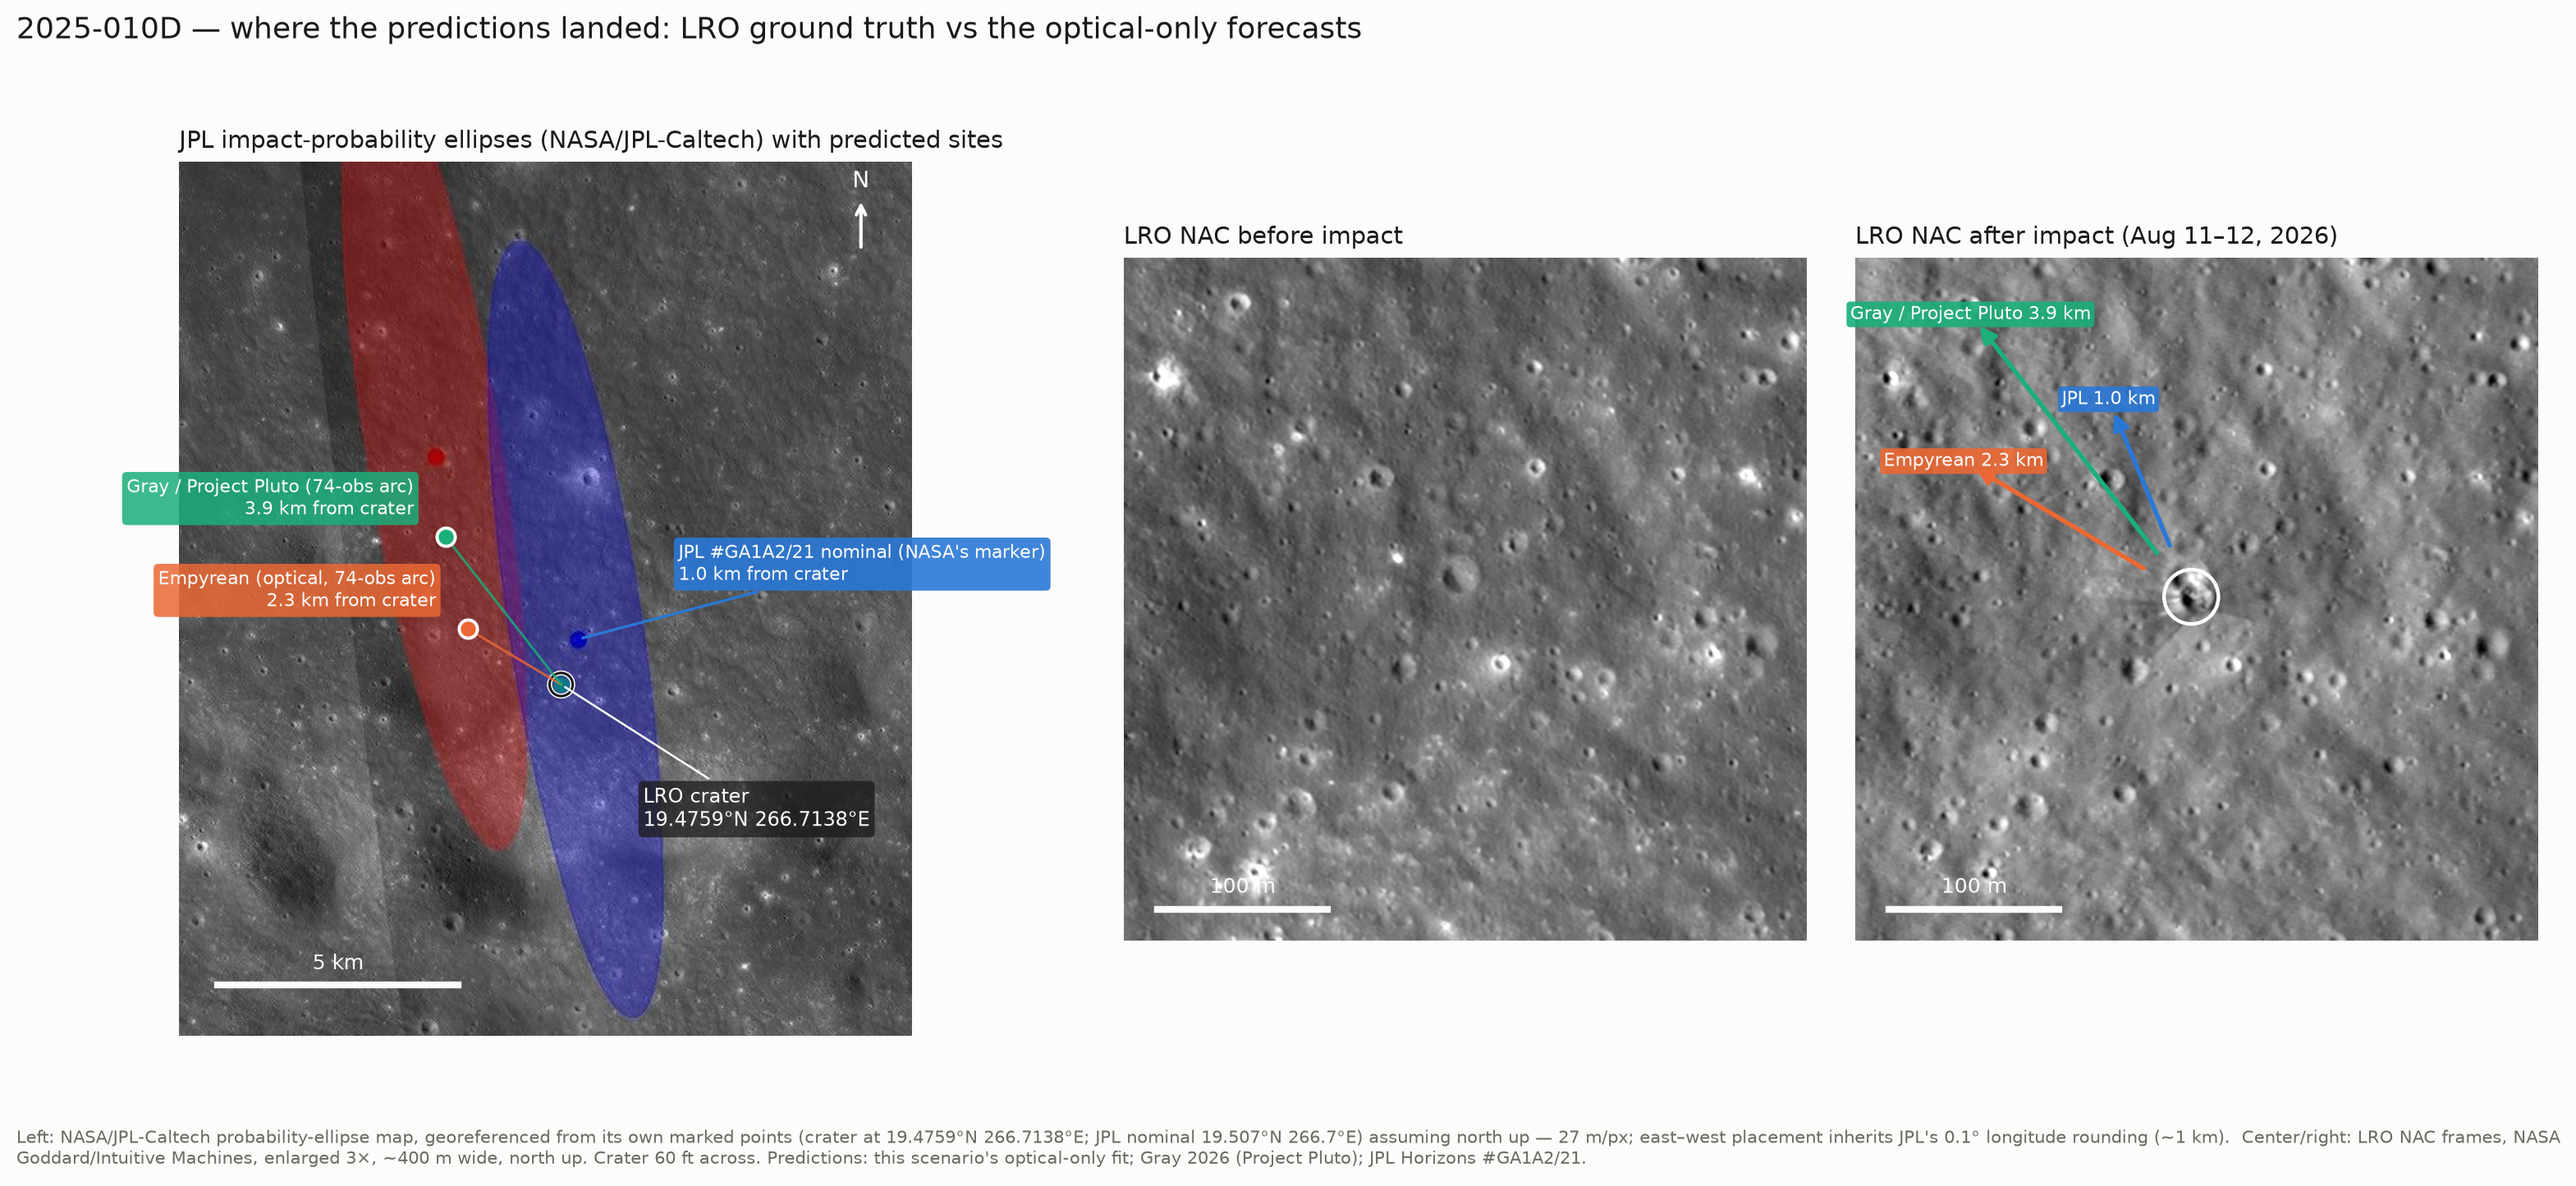
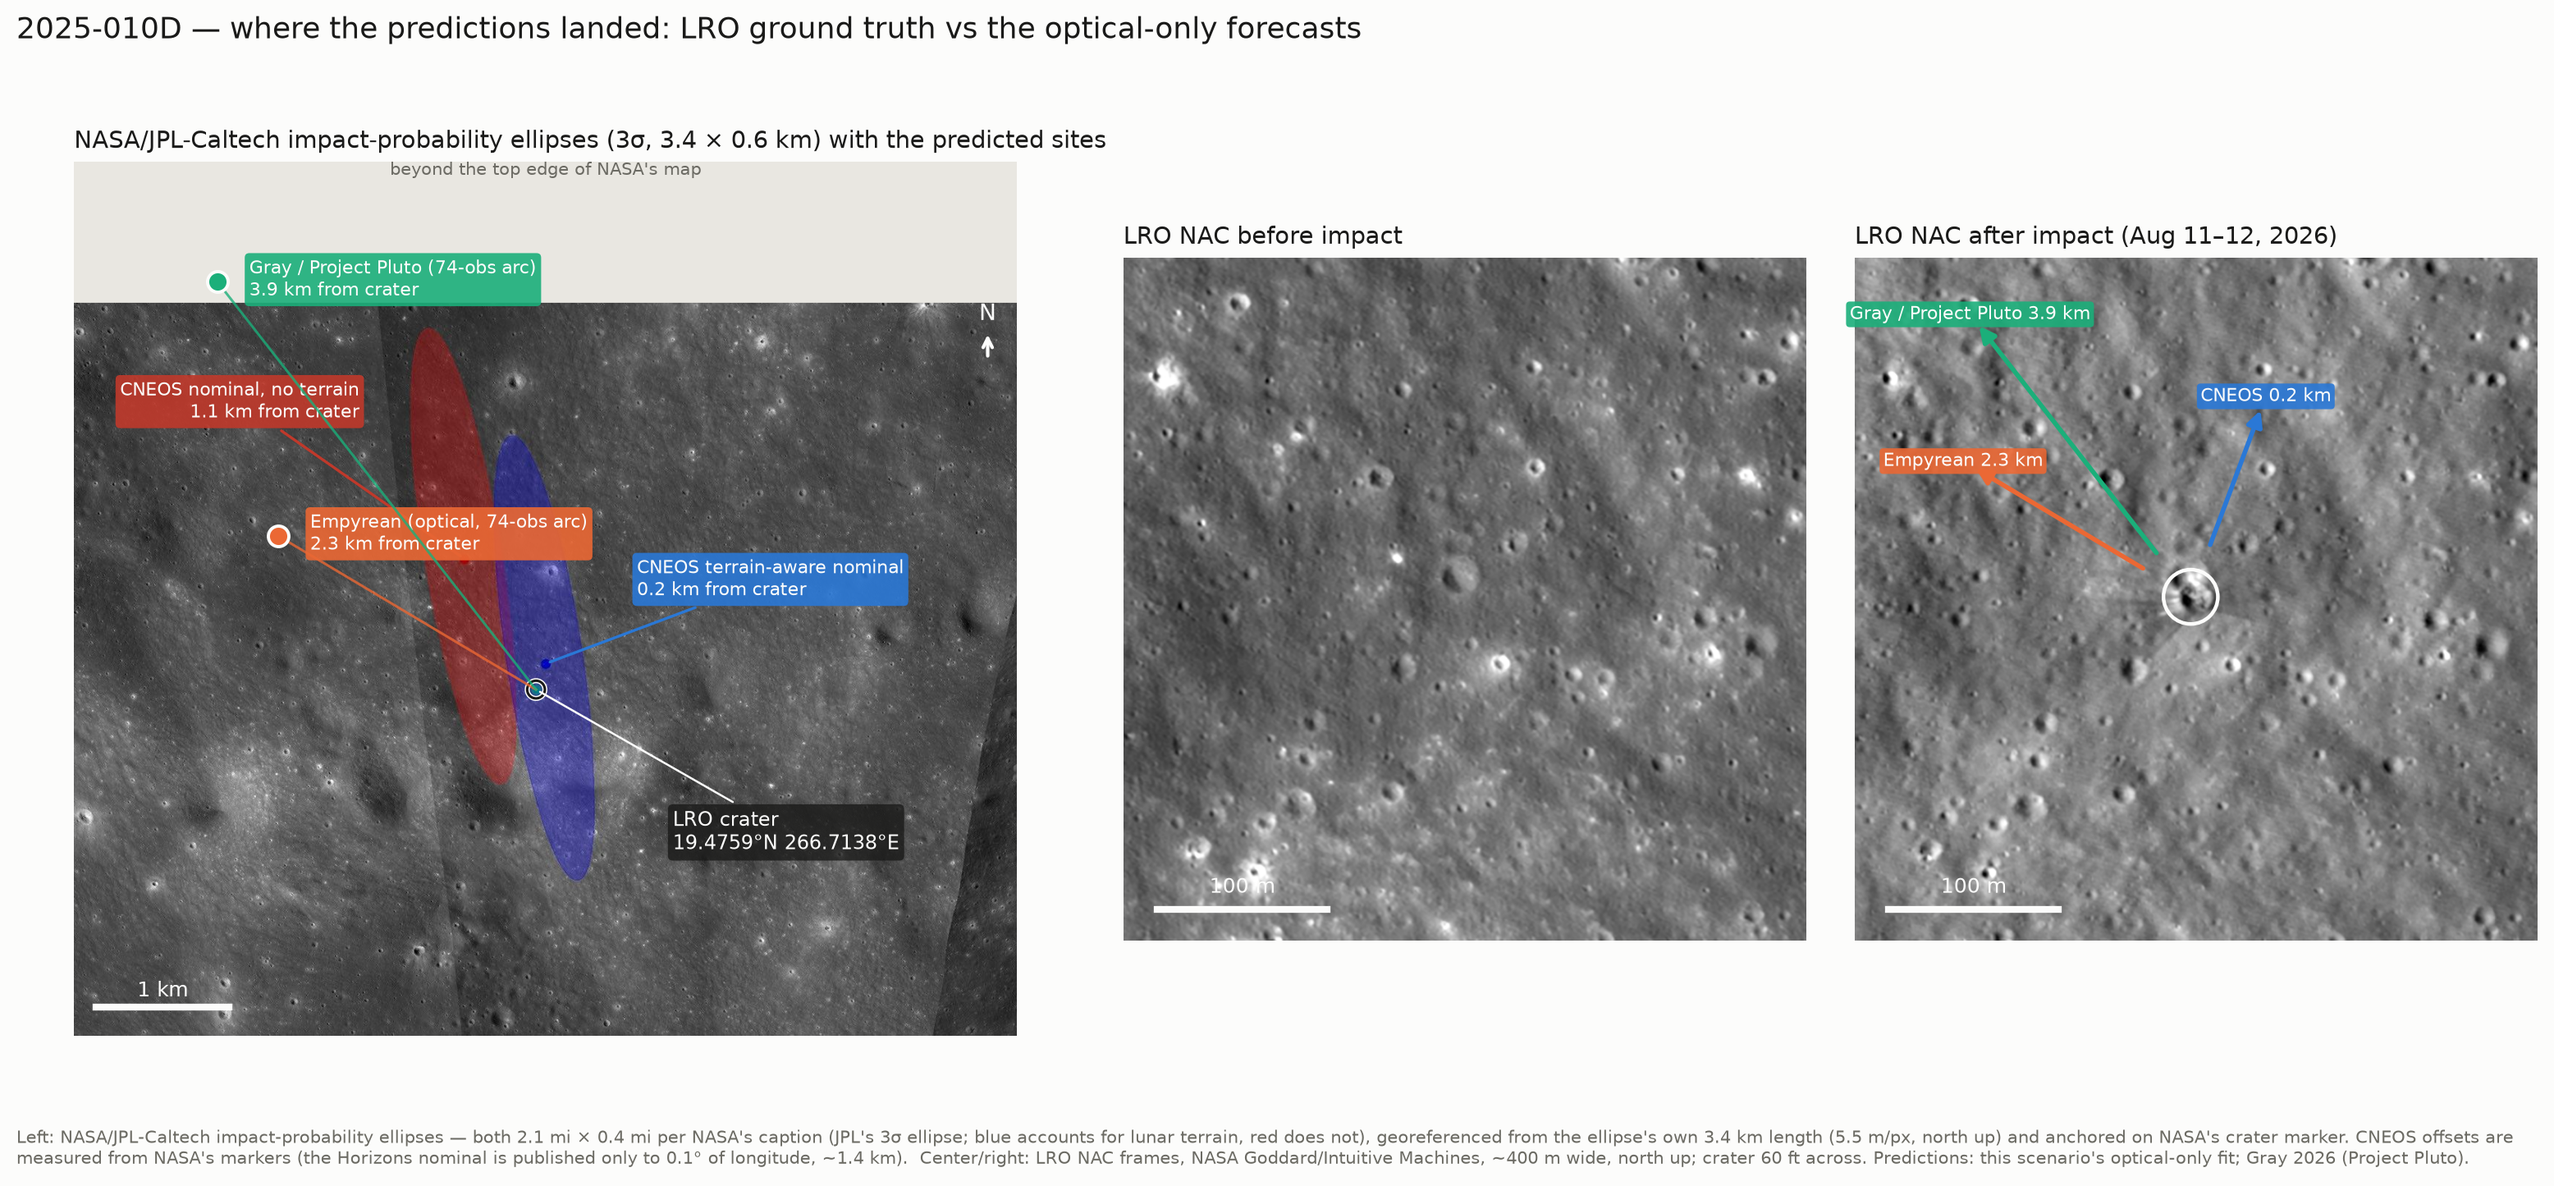
Georeference the LRO map from its ellipse length, not a rounded coordinate
The first cut anchored the map scale on the Horizons nominal, which is
published only to 0.1° of longitude (~1.4 km) — far too coarse for a
sub-kilometre scale, and it came out 4.7× too large. NASA's caption
states both ellipses are 2.1 mi × 0.4 mi (JPL's 3σ ellipse), so the
scale now comes from the blue ellipse's own major axis (5.5 m/px), in
agreement with a template match of the NAC frame into the map. At the
true scale CNEOS's terrain-aware nominal lies 0.2 km from the crater
and their no-terrain solution 1.1 km; this scenario's 2.3 km and
Gray's 3.9 km are unchanged, and the README, the miss decomposition,
and the sensitivity script's closing text follow.

Changed region(s): [[0.0312, 0.0934, 0.9974, 0.872], [0.0, 0.9343, 0.9974, 0.9965], [0.0312, 0.0, 0.5299, 0.0311]]

diff --git a/2025-010D/lro_figure.py b/2025-010D/lro_figure.py
@@ -45,8 +45,8 @@ CRATER = (19.4759, 266.7138)  # NASA LRO, 2026-08-11/12
 PRED = {
     "Empyrean (optical, 74-obs arc)": (19.514, 266.646, "#eb6834"),
     "Gray / Project Pluto (74-obs arc)": (19.577, 266.630, "#1baf7a"),
-    "JPL #GA1A2/21 nominal": (19.507, 266.700, "#2a78d6"),
 }
+CNEOS_COLOR = {"terrain-aware": "#2a78d6", "no terrain": "#c0392b"}
 
 
 def offset_km(lat, lon):
@@ -55,7 +55,11 @@ def offset_km(lat, lon):
     return dn, de
 
 
-# ── georeference NASA's ellipse map from its own marked points ──
+# ── georeference NASA's ellipse map ──
+# The caption states both ellipses are 2.1 miles (3.4 km) long — JPL's
+# published 3-sigma ellipse — so the map scale comes from the blue
+# ellipse's own major axis. (The Horizons nominal is published to 0.1°
+# of longitude, ~1.4 km, far too coarse to anchor a sub-km scale.)
 img = np.asarray(Image.open(N + "ellipses.jpg").convert("RGB")).astype(int)
 r, g, b = img[..., 0], img[..., 1], img[..., 2]
 
@@ -65,20 +69,30 @@ def centroid(mask):
     return float(xs.mean()), float(ys.mean()), int(mask.sum())
 
 
-blue_pt = centroid((b > 170) & (r < 50) & (g < 60))  # JPL nominal dot (saturated)
-teal_pt = centroid((g > 120) & (b > 100) & (r < 60) & (g > r + 60))  # crater dot
-print("blue dot px:", blue_pt, "| teal dot px:", teal_pt)
-dn_jpl, de_jpl = offset_km(*PRED["JPL #GA1A2/21 nominal"][:2])
-m_per_px = (dn_jpl * 1000) / (teal_pt[1] - blue_pt[1])  # north-up, from Δlat
+def major_axis_px(mask):
+    ys, xs = np.nonzero(mask)
+    pts = np.column_stack([xs, ys]).astype(float)
+    c = pts.mean(axis=0)
+    _, _, vt = np.linalg.svd(pts - c, full_matrices=False)
+    proj = (pts - c) @ vt[0]
+    return float(proj.max() - proj.min())
+
+
+blue_pt = centroid((b > 170) & (r < 50) & (g < 60))  # CNEOS terrain-aware nominal
+red_pt = centroid((r > 150) & (g < 40) & (b < 40))  # CNEOS nominal without terrain
+teal_pt = centroid((g > 120) & (b > 100) & (r < 60) & (g > r + 60))  # LRO crater
+ELLIPSE_LONG_M = 2.1 * 1609.344
+m_per_px = ELLIPSE_LONG_M / major_axis_px((b - r > 45) & (b - g > 45) & (b < 170))
 print(
-    f"scale {m_per_px:.1f} m/px; east-west check: JPL should be {de_jpl * 1000:+.0f} m "
-    f"east, measured {(blue_pt[0] - teal_pt[0]) * m_per_px:+.0f} m (JPL lon rounded to 0.1°)"
+    f"scale {m_per_px:.2f} m/px from the 3.4 km ellipse; map {1280 * m_per_px / 1000:.1f} km wide"
 )
 
 
-def to_px(lat, lon):
-    dn, de = offset_km(lat, lon)
-    return teal_pt[0] + de * 1000 / m_per_px, teal_pt[1] - dn * 1000 / m_per_px
+def map_offset_km(pt):
+    """North/east offset of a marked map point from the crater, in km."""
+    de = (pt[0] - teal_pt[0]) * m_per_px / 1000
+    dn = -(pt[1] - teal_pt[1]) * m_per_px / 1000
+    return dn, de
 
 
 INK, MUTED, SURF = "#1a1a19", "#6b6a63", "#fcfcfb"
@@ -95,68 +109,91 @@ gs = fig.add_gridspec(
     bottom=0.14,
 )
 
-# Panel A: wide field
+# Panel A: NASA's map at its true scale, with a margin above for Gray's point
 ax = fig.add_subplot(gs[0])
-x0, x1, y0, y1 = 330, 900, 120, 800  # crop around the ellipses
-ax.imshow(img[y0:y1, x0:x1].astype(np.uint8), extent=[x0, x1, y1, y0])
+H_IMG, W_IMG = img.shape[:2]
+MARGIN = 190
+ax.imshow(img.astype(np.uint8), extent=[0, W_IMG, H_IMG, 0])
+ax.set_xlim(0, W_IMG)
+ax.set_ylim(H_IMG, -MARGIN)
+ax.axhspan(-MARGIN, 0, color="#e9e7e1", zorder=0)
+ax.text(
+    W_IMG / 2,
+    -MARGIN + 18,
+    "beyond the top edge of NASA's map",
+    ha="center",
+    fontsize=7.5,
+    color=MUTED,
+)
 cx, cy = teal_pt[:2]
-ax.add_patch(Circle((cx, cy), 9, fill=False, color="#fcfcfb", lw=2.2))
-ax.add_patch(Circle((cx, cy), 9, fill=False, color="#1a1a19", lw=1.1))
+ax.add_patch(Circle((cx, cy), 12, fill=False, color="#fcfcfb", lw=2.2))
+ax.add_patch(Circle((cx, cy), 12, fill=False, color="#1a1a19", lw=1.1))
 ax.annotate(
     "LRO crater\n19.4759°N 266.7138°E",
     (cx, cy),
-    xytext=(36, -62),
+    xytext=(60, -70),
     textcoords="offset points",
     fontsize=8.5,
     color="#fcfcfb",
     arrowprops={"arrowstyle": "-", "color": "#fcfcfb", "lw": 0.9},
-    bbox={"boxstyle": "round,pad=0.25", "fc": "#1a1a19", "ec": "none", "alpha": 0.75},
+    bbox={"boxstyle": "round,pad=0.25", "fc": "#1a1a19", "ec": "none", "alpha": 0.8},
 )
-for lab, (lat, lon, col) in PRED.items():
-    dn, de = offset_km(lat, lon)
-    d = math.hypot(dn, de)
-    if lab.startswith("JPL"):
-        px, py = blue_pt[:2]  # NASA's own marker for the JPL nominal
-        ax.annotate(
-            f"{lab} (NASA's marker)\n{d:.1f} km from crater",
-            (px, py),
-            xytext=(44, 26),
-            textcoords="offset points",
-            fontsize=8,
-            color="#fcfcfb",
-            ha="left",
-            arrowprops={"arrowstyle": "-", "color": col, "lw": 1.2},
-            bbox={"boxstyle": "round,pad=0.25", "fc": col, "ec": "none", "alpha": 0.9},
-        )
-        continue
-    px, py = to_px(lat, lon)
-    ax.plot(px, py, "o", ms=8, mfc=col, mec="#fcfcfb", mew=1.4, zorder=5)
-    ax.plot([cx, px], [cy, py], color=col, lw=1.1, alpha=0.8, zorder=4)
+MAP_PTS = {}
+for lab, pt, dxy in (
+    ("CNEOS terrain-aware nominal", blue_pt, (40, 30)),
+    ("CNEOS nominal, no terrain", red_pt, (-46, 62)),
+):
+    dn, de = map_offset_km(pt)
+    MAP_PTS[lab] = (dn, de)
+    col = CNEOS_COLOR["terrain-aware" if "aware" in lab else "no terrain"]
     ax.annotate(
-        f"{lab}\n{d:.1f} km from crater",
-        (px, py),
-        xytext=(-14, 10),
+        f"{lab}\n{math.hypot(dn, de):.1f} km from crater",
+        pt[:2],
+        xytext=dxy,
         textcoords="offset points",
         fontsize=8,
         color="#fcfcfb",
-        ha="right",
-        bbox={"boxstyle": "round,pad=0.25", "fc": col, "ec": "none", "alpha": 0.85},
+        ha="left" if dxy[0] > 0 else "right",
+        arrowprops={"arrowstyle": "-", "color": col, "lw": 1.2},
+        bbox={"boxstyle": "round,pad=0.25", "fc": col, "ec": "none", "alpha": 0.9},
     )
-# scale bar + north
-bar_px = 5000 / m_per_px
-ax.plot([x0 + 30, x0 + 30 + bar_px], [y1 - 40, y1 - 40], color="#fcfcfb", lw=3)
-ax.text(x0 + 30 + bar_px / 2, y1 - 52, "5 km", ha="center", fontsize=9, color="#fcfcfb")
+
+
+def to_px(lat, lon):
+    dn, de = offset_km(lat, lon)
+    return cx + de * 1000 / m_per_px, cy - dn * 1000 / m_per_px
+
+
+for lab, (lat, lon, col) in PRED.items():
+    dn, de = offset_km(lat, lon)
+    d = math.hypot(dn, de)
+    px, py = to_px(lat, lon)
+    ax.plot(px, py, "o", ms=9, mfc=col, mec="#fcfcfb", mew=1.4, zorder=5, clip_on=False)
+    ax.plot([cx, px], [cy, py], color=col, lw=1.1, alpha=0.8, zorder=4, clip_on=False)
+    ax.annotate(
+        f"{lab}\n{d:.1f} km from crater",
+        (px, py),
+        xytext=(14, -6),
+        textcoords="offset points",
+        fontsize=8,
+        color="#fcfcfb",
+        ha="left",
+        bbox={"boxstyle": "round,pad=0.25", "fc": col, "ec": "none", "alpha": 0.9},
+    )
+bar_px = 1000 / m_per_px
+ax.plot([30, 30 + bar_px], [H_IMG - 40, H_IMG - 40], color="#fcfcfb", lw=3)
+ax.text(30 + bar_px / 2, H_IMG - 54, "1 km", ha="center", fontsize=9, color="#fcfcfb")
 ax.annotate(
     "N",
-    (x1 - 40, y0 + 70),
-    (x1 - 40, y0 + 20),
+    (W_IMG - 40, 80),
+    (W_IMG - 40, 25),
     fontsize=10,
     color="#fcfcfb",
     ha="center",
     arrowprops={"arrowstyle": "<-", "color": "#fcfcfb", "lw": 1.5},
 )
 ax.set_title(
-    "JPL impact-probability ellipses (NASA/JPL-Caltech) with predicted sites",
+    "NASA/JPL-Caltech impact-probability ellipses (3σ, 3.4 × 0.6 km) with the predicted sites",
     fontsize=10.5,
     color=INK,
     loc="left",
@@ -181,8 +218,17 @@ for k, (ttl, fn) in enumerate(
     if k == 1:
         ccx, ccy = 0.492 * FRAME_M, 0.497 * FRAME_M  # fresh crater in the frame
         axb.add_patch(Circle((ccx, ccy), 16, fill=False, color="#fcfcfb", lw=1.6))
-        for j, (lab, (lat, lon, col)) in enumerate(PRED.items()):
-            dn, de = offset_km(lat, lon)
+        arrows = [
+            (lab, offset_km(lat, lon), col) for lab, (lat, lon, col) in PRED.items()
+        ]
+        arrows.append(
+            (
+                "CNEOS",
+                MAP_PTS["CNEOS terrain-aware nominal"],
+                CNEOS_COLOR["terrain-aware"],
+            )
+        )
+        for j, (lab, (dn, de), col) in enumerate(arrows):
             d = math.hypot(dn, de)
             ang = math.atan2(dn, de)
             L = (150, 205, 120)[j]
@@ -223,11 +269,12 @@ fig.suptitle(
 fig.text(
     0.02,
     0.035,
-    "Left: NASA/JPL-Caltech probability-ellipse map, georeferenced from its own marked points "
-    "(crater at 19.4759°N 266.7138°E; JPL nominal 19.507°N 266.7°E) assuming north up — "
-    f"{m_per_px:.0f} m/px; east–west placement inherits JPL's 0.1° longitude rounding (~1 km).  "
-    "Center/right: LRO NAC frames, NASA Goddard/Intuitive Machines, enlarged 3×, ~400 m wide, north up. "
-    "Crater 60 ft across. Predictions: this scenario's optical-only fit; Gray 2026 (Project Pluto); JPL Horizons #GA1A2/21.",
+    "Left: NASA/JPL-Caltech impact-probability ellipses — both 2.1 mi × 0.4 mi per NASA's caption "
+    "(JPL's 3σ ellipse; blue accounts for lunar terrain, red does not), georeferenced from the ellipse's "
+    f"own 3.4 km length ({m_per_px:.1f} m/px, north up) and anchored on NASA's crater marker. "
+    "CNEOS offsets are measured from NASA's markers (the Horizons nominal is published only to 0.1° of "
+    "longitude, ~1.4 km).  Center/right: LRO NAC frames, NASA Goddard/Intuitive Machines, ~400 m wide, "
+    "north up; crater 60 ft across. Predictions: this scenario's optical-only fit; Gray 2026 (Project Pluto).",
     fontsize=7.6,
     color=MUTED,
     wrap=True,

diff --git a/2025-010D/amr_sensitivity.py b/2025-010D/amr_sensitivity.py
@@ -80,7 +80,8 @@ def main() -> None:
         "\nEvery +0.001 m²/kg moves the site ~0.8 km cross-track while the fit\n"
         "quality barely changes: the optical arc cannot separate SRP from\n"
         "gravity. JPL #GA1A2/21 (370 measurements to Aug 4, including 3 radar\n"
-        "Doppler points) breaks that degeneracy and lands 1.0 km from the crater."
+        "Doppler points) breaks that degeneracy; CNEOS's terrain-aware nominal\n"
+        "lands 0.2 km from the crater."
     )
 
 

diff --git a/2025-010D/README.md b/2025-010D/README.md
@@ -193,16 +193,20 @@ forecasts land as follows (great-circle offsets on a 1737.4 km sphere):
 
 | Prediction | Site | Offset from crater |
 |---|---|---|
-| JPL #GA1A2/21 (radar-informed nominal) | 19.507°N, 266.7°E | 1.0 km, NNW |
+| CNEOS / JPL terrain-aware nominal (blue marker on NASA's map) | — | 0.2 km, NNE |
+| CNEOS / JPL nominal without terrain (red marker) | — | 1.1 km, NNW |
 | **This scenario** (optical, 74-obs public arc) | 19.514°N, 266.646°E | 2.3 km, WNW |
 | Gray / Project Pluto (same 74-obs arc) | 19.577°N, 266.630°E | 3.9 km, NW |
 
 ![LRO ground truth vs predicted impact sites](lro_impact_site.png)
 
-*Left: NASA/JPL-Caltech impact-probability ellipses, georeferenced from
-the map's own marked points (the crater and JPL's nominal) assuming
-north up (~27 m/px; the east–west placement inherits the 0.1° rounding
-of JPL's published longitude, ~1 km). Center/right: LRO NAC frames
+*Left: NASA/JPL-Caltech impact-probability ellipses (both 2.1 mi ×
+0.4 mi per NASA's caption — JPL's 3σ ellipse — the blue one accounting
+for lunar terrain), georeferenced from the ellipse's own 3.4 km length
+(~5.6 m/px, north up) and anchored on the crater marker; the JPL
+offsets are measured from NASA's markers rather than from the Horizons
+coordinates, which are published only to 0.1° of longitude (~1.4 km).
+Center/right: LRO NAC frames
 before and after the impact, NASA Goddard/Intuitive Machines, ~400 m
 wide, north up; the arrows point toward each prediction, all of which
 lie outside this frame.* The figure is built by
@@ -218,10 +222,12 @@ travelling toward azimuth ~52°, 2.42 km/s) separates *when* from *where*:
 |---|---|---|
 | This scenario | −0.8 km (−0.4 s) | −2.1 km |
 | Gray / Project Pluto | 0.0 km | −3.9 km |
-| JPL #GA1A2/21 | +0.3 km (+0.1 s) | −1.0 km |
+| CNEOS / JPL terrain-aware nominal | +0.2 km (+0.1 s) | −0.1 km |
 
-Timing was solved by everyone; the error is cross-track, and all three
-solutions sit on the same side of the ground track. [`amr_sensitivity.py`](./amr_sensitivity.py)
+Timing was solved by everyone; the error is cross-track, and every
+solution sits on the same side of the ground track — including CNEOS's
+no-terrain nominal at −1.1 km, which their terrain-aware solution pulls
+to within 0.2 km of the crater. [`amr_sensitivity.py`](./amr_sensitivity.py)
 shows where it comes from: holding the solar-radiation-pressure
 area-to-mass ratio at a ladder of values and refitting the same
 74-observation arc slides the impact site ~0.8 km cross-track per
@@ -235,7 +241,8 @@ That is exactly the degeneracy radar breaks. JPL's #GA1A2/21 is a fit
 to 370 measurements spanning 2026-07-20 to 08-04 that includes three
 radar Doppler measurements (Horizons solution notes, S. Naidu) — five
 times the data, an arc reaching the eve of impact, and range-rate
-pinning the axis optical astrometry constrains worst. Without radar,
+pinning the axis optical astrometry constrains worst — and it lands
+0.2 km from the crater once lunar terrain is included. Without radar,
 the honest improvements are a physically informed AMR prior from the
 stage's known mass and dimensions, or reporting the AMR-marginalized
 ellipse instead of a point. (A frame mismatch is ruled out: the engine
